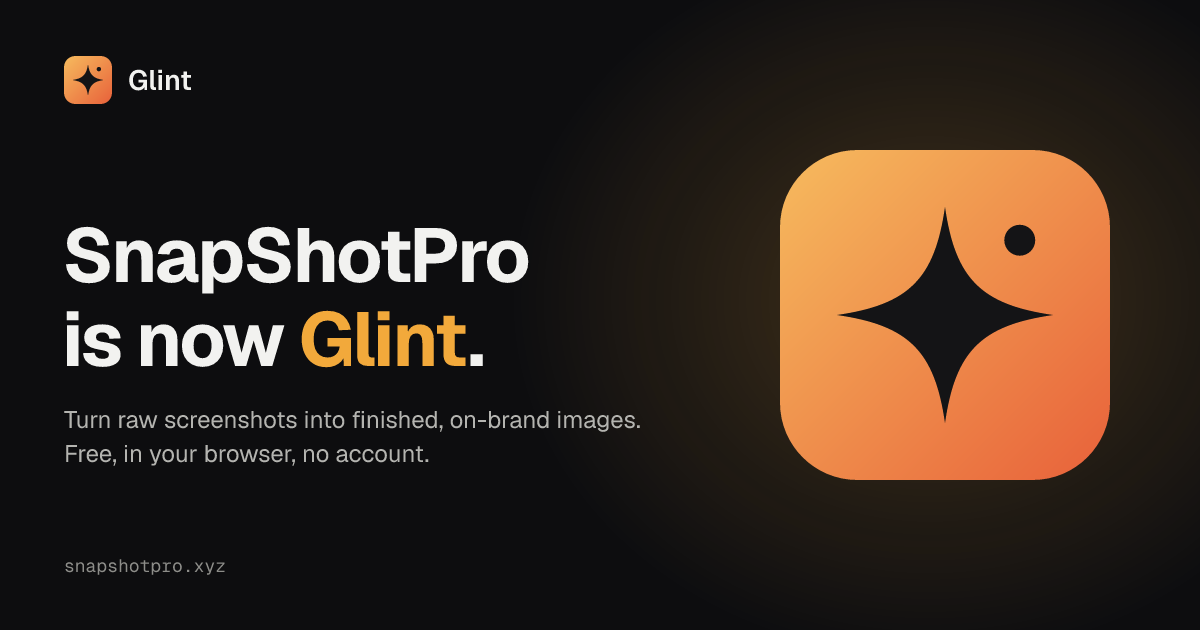
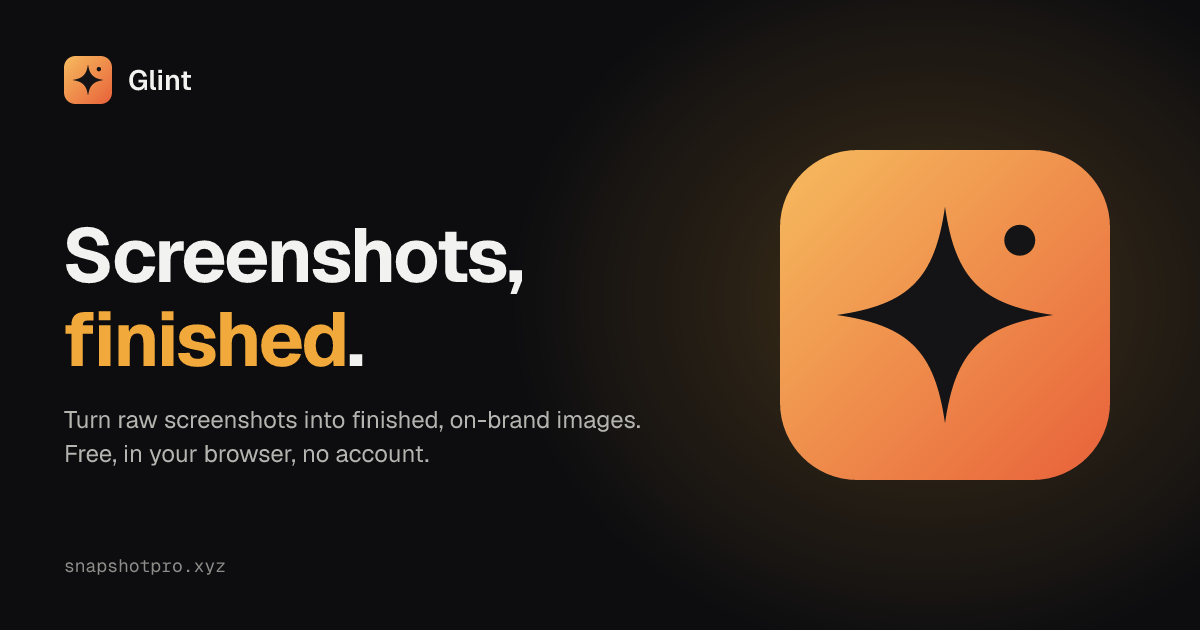
Remove SnapShotPro mentions outside the /glint/ rename page
Drop the site-wide rename bar and the editor's 'formerly SnapShotPro' link,
rewrite the homepage hero, OG image, what's-new heading and changelog copy to
say Glint, and update CLAUDE.md. Storage-migration code and the domain keep
the old name so existing users' data and links still work.

Claude-Session: https://claude.ai/code/session_01SDWFQxgppoc6R8FohFvKwZ

Changed region(s): [[0.0308, 0.4825, 0.4008, 0.6032], [0.0925, 0.3619, 0.4625, 0.4825]]

diff --git a/changelog/index.html b/changelog/index.html
@@ -4,11 +4,11 @@
     <meta charset="UTF-8">
     <meta name="viewport" content="width=device-width, initial-scale=1.0">
     <link rel="icon" type="image/svg+xml" href="/favicon.svg">
-    <meta name="description" content="Glint changelog. What shipped in each release, up to v36 Darkroom (SnapShotPro is now Glint), v35 Contrast (Before / After), v34 Bokeh (multi-region spotlight, background blur), v33 Aperture (eyedropper, recent colors, distribute, undo from the toast, quick export), and v32 Open Canvas: lay every page on an infinite, pan-and-zoom board of cards you can arrange, connect, group, seed from a URL, drive by chat, and export as one image, on top of v31 Merge Studio (CSV to N designs), v30 Studio Intelligence, the AI Design Agent, AI Assets, Design Variations, color filters and palettes, vector shape tools, motion on stills, the timeline scrubber, layer blend modes, alignment guides, device reflections, richer text effects, multi-page decks, projects, version history, live collaboration, Brand Kit, App Store screenshot sets, generative AI edits, and video.">
+    <meta name="description" content="Glint changelog. What shipped in each release, up to v36 Darkroom (Meet Glint), v35 Contrast (Before / After), v34 Bokeh (multi-region spotlight, background blur), v33 Aperture (eyedropper, recent colors, distribute, undo from the toast, quick export), and v32 Open Canvas: lay every page on an infinite, pan-and-zoom board of cards you can arrange, connect, group, seed from a URL, drive by chat, and export as one image, on top of v31 Merge Studio (CSV to N designs), v30 Studio Intelligence, the AI Design Agent, AI Assets, Design Variations, color filters and palettes, vector shape tools, motion on stills, the timeline scrubber, layer blend modes, alignment guides, device reflections, richer text effects, multi-page decks, projects, version history, live collaboration, Brand Kit, App Store screenshot sets, generative AI edits, and video.">
     <title>Changelog · Glint</title>
     <meta property="og:type" content="website">
     <meta property="og:title" content="Glint Changelog">
-    <meta property="og:description" content="Every Glint release, up to v36 Darkroom (SnapShotPro is now Glint), v34 Bokeh (multi-region spotlight, background blur), v33 Aperture (quality of life), and v32 Open Canvas: an infinite board of cards for your whole project, seed it from a URL, drive it by chat, and export it as one image. Plus v31 Merge Studio (CSV to N on-brand designs) and the full trail back to a single HTML file.">
+    <meta property="og:description" content="Every Glint release, up to v36 Darkroom (Meet Glint), v34 Bokeh (multi-region spotlight, background blur), v33 Aperture (quality of life), and v32 Open Canvas: an infinite board of cards for your whole project, seed it from a URL, drive it by chat, and export it as one image. Plus v31 Merge Studio (CSV to N on-brand designs) and the full trail back to a single HTML file.">
     <meta property="og:image" content="__OG_BASE__/og.png?v=2">
     <meta name="theme-color" content="#0d0d0f">
     <link rel="preconnect" href="https://fonts.googleapis.com">
@@ -975,7 +975,6 @@
         <p class="mono-label" style="margin-bottom:16px;">Updates</p>
         <h1>Major updates, and <span class="accent">every release</span>.</h1>
         <p class="lede">The big leaps get a spotlight. Below that, the full trail, from a single HTML file to a full browser studio.</p>
-        <p class="lede rename-note">Glint was called SnapShotPro through v35. Older entries keep the name they shipped with.</p>
     </div>
 </header>
 
@@ -991,7 +990,7 @@
                 <span class="spot-tag">Latest release</span>
                 <div class="spot-ver">v36 · October 2026</div>
                 <h2>Darkroom.</h2>
-                <p class="spot-lede">SnapShotPro is now Glint. A new name and a new look for the studio, with every feature and every project carried over.</p>
+                <p class="spot-lede">Meet Glint. A new name and a new look for the studio, with every feature and every project carried over.</p>
                 <div class="spot-feats">
                     <div class="spot-feat">
                         <span class="spot-feat-ico"><img src="/favicon.svg" alt="" width="20" height="20"></span>
@@ -1030,12 +1029,12 @@
                 <div class="entry-meta"><span class="ver">v36.0</span><span class="entry-date">October 2026</span></div>
                 <div>
                     <h2>Darkroom</h2>
-                    <p class="entry-note">The fourth photography codename, and the biggest launch so far: SnapShotPro is now Glint.</p>
+                    <p class="entry-note">The fourth photography codename, and the biggest launch so far: the studio is now Glint.</p>
                     <ul class="changes">
-                        <li><b>A new name.</b> SnapShotPro is now Glint, everywhere: the studio, the site, the installed app and the browser extension. Read why on the new <a href="/glint/">Meet Glint</a> page.</li>
+                        <li><b>A new name.</b> The studio is now Glint, everywhere: the studio, the site, the installed app and the browser extension. Read why on the new <a href="/glint/">Meet Glint</a> page.</li>
                         <li><b>A new look.</b> A sparkle mark, and a graphite and off-white interface with one amber accent. In light mode, highlighted text stays dark so it is easy to read.</li>
-                        <li><b>Your work comes with you.</b> The first time you open Glint, your projects, templates, brand kits, saved colors, API keys and settings are copied over from SnapShotPro. The old copy stays in your browser as a backup.</li>
-                        <li><b>Glint Capture.</b> The browser extension is renamed and restyled. Captures from the SnapShotPro Capture extension you already have still open in the studio.</li>
+                        <li><b>Your work comes with you.</b> The first time you open Glint, your projects, templates, brand kits, saved colors, API keys and settings are copied over automatically. The old copy stays in your browser as a backup.</li>
+                        <li><b>Glint Capture.</b> The browser extension is renamed and restyled. Captures from the older version of the extension you already have still open in the studio.</li>
                         <li><b>A new homepage.</b> Every image on it is real output from the editor, including a new graphite and amber background recipe.</li>
                     </ul>
                 </div>
@@ -1050,7 +1049,7 @@
                         <li><b>Works everywhere, exports everywhere.</b> The comparison sits inside your screenshot, so frames, device and 3D mockups, shadows, and filters all apply to it, and it bakes into exported images and videos. It saves with your projects and pages.</li>
                         <li><b>Animated wipes.</b> Turn on "Animate a wipe" and a Before / After lane appears in Motion Studio. The divider sweeps from the old screenshot to the new one, and you can move or stretch it like any other clip and export it as a video or GIF.</li>
                         <li><b>Interactive slider pages.</b> "Export interactive slider" downloads one small HTML file with a divider people can drag (or move with the arrow keys). It needs nothing else, so you can put it in a changelog, docs page, or pitch.</li>
-                        <li><b>Simple and Pro modes.</b> A new Simple / Pro switch in the header. Simple shows only the tools most people need, and lists the rest at the bottom of each panel. New visitors start in Simple; if you've used SnapShotPro before, you stay in Pro.</li>
+                        <li><b>Simple and Pro modes.</b> A new Simple / Pro switch in the header. Simple shows only the tools most people need, and lists the rest at the bottom of each panel. New visitors start in Simple; if you've used Glint before, you stay in Pro.</li>
                         <li><b>A toolbar that follows your selection.</b> Select an arrow, shape, text, or redaction and a small toolbar appears right above it, with color, size, bold and italic, duplicate, bring to front, send to back, and delete. The "⋯" button opens the full right-click menu. Turn it off from Cmd-K if you prefer.</li>
                     </ul>
                 </div>
@@ -1076,7 +1075,7 @@
                         <li><b>Undo after a slider drag works.</b> Dragging a slider or picking a color and then pressing Undo used to do nothing the first time. It now puts the old value back straight away.</li>
                         <li><b>Reset and Clear All can be undone in one click.</b> Both now show an Undo button in the notification, like deletes do. Undoing a Reset also brings back extra images you'd added.</li>
                         <li><b>Spotlight exports correctly.</b> The highlighted area used to come out see-through in exported images. It now shows your screenshot at full brightness, the way the preview does.</li>
-                        <li><b>Real examples on the site.</b> The homepage and gallery now show images made in SnapShotPro instead of stock photos, and the homepage loads faster.</li>
+                        <li><b>Real examples on the site.</b> The homepage and gallery now show images made in Glint instead of stock photos, and the homepage loads faster.</li>
                         <li><b>Lighter first visit.</b> The offline copy downloaded on your first visit drops from about 5.4 MB to 1.6 MB. Heavier tools like 3D mockups and PDF export download the first time you use them.</li>
                     </ul>
                 </div>
@@ -1126,7 +1125,7 @@
                     <h2>Open Canvas</h2>
                     <ul class="changes">
                         <li><b>An infinite board for your whole project.</b> Every page is now a card on a freeform, pan-and-zoom canvas. Drag cards to arrange them, resize and layer them, draw arrows between them, marquee a set into a group, and drop text labels anywhere. Double-click any card to edit that page in the full studio and jump straight back. The board is a new view alongside Single, Set, and Batch, open from the command palette (Cmd-K).</li>
-                        <li><b>Seed it from a URL.</b> Paste a page link in the board toolbar and SnapShotPro scrapes its images server-side (SSRF-guarded) and drops each one onto the board as a card, loaded CORS-clean through the existing proxy. Paste a link, get a set, no manual capture.</li>
+                        <li><b>Seed it from a URL.</b> Paste a page link in the board toolbar and Glint scrapes its images server-side (SSRF-guarded) and drops each one onto the board as a card, loaded CORS-clean through the existing proxy. Paste a link, get a set, no manual capture.</li>
                         <li><b>Drive it by chat.</b> The Design Agent is now board-aware: ask it to arrange your cards into a grid, row, hero, or bento layout, group a set, add or duplicate a card, seed from a link, or export the whole board as one PNG. The agent mutates the board through the same tools you'd use by hand.</li>
                         <li><b>Export and persist the board.</b> One command re-renders every card at full resolution and composites them with your text and arrows into a single PNG that matches the board on screen. The layout saves with your project (document version 14) and reopens exactly as you left it. The first version directed under GLM-5.2.</li>
                     </ul>
@@ -1150,7 +1149,7 @@
                     <ul class="changes">
                         <li><b>Campaign Generator.</b> Turn one screenshot into a coordinated set — hero, Instagram, X, LinkedIn, an App Store set, and a teaser video — saved in a revisitable Campaign folder you can re-download as a ZIP.</li>
                         <li><b>AI Screenshot Editor.</b> Edit the content inside a screenshot: fix a typo, recolor a button, auto-redact emails and names, or remove a stray cursor — the pixels change, and it bakes into every export.</li>
-                        <li><b>Brand Brain.</b> Paste a URL or drop a logo and SnapShotPro extracts a full brand system — palette, type, frame, logo — then applies and enforces it across every design and export.</li>
+                        <li><b>Brand Brain.</b> Paste a URL or drop a logo and Glint extracts a full brand system — palette, type, frame, logo — then applies and enforces it across every design and export.</li>
                         <li><b>Producer.</b> Pick a goal like "Launch kit", walk away, and come back to a finished, brand-consistent folder of assets. Copilot becomes autopilot.</li>
                     </ul>
                 </div>
@@ -1194,7 +1193,7 @@
                 <div>
                     <h2>Browser extension</h2>
                     <ul class="changes">
-                        <li><b>Capture any page in one click.</b> The new SnapShotPro Capture extension for Chrome grabs the visible viewport, the entire scrolling page (scrolled and stitched into one tall image, with sticky headers held in place), or a region you drag, and opens it straight in the studio.</li>
+                        <li><b>Capture any page in one click.</b> The new Glint Capture extension for Chrome grabs the visible viewport, the entire scrolling page (scrolled and stitched into one tall image, with sticky headers held in place), or a region you drag, and opens it straight in the studio.</li>
                         <li><b>A quick editor, and the full studio.</b> Every capture opens a built-in quick editor right away: crop, add padding and a background, drop in arrows and text, and download a clean PNG. Need more? One click hands the shot to the full studio at snapshotpro.xyz for device frames, mockups, shadows, and redaction.</li>
                         <li><b>Private by design.</b> The extension reads a tab only when you click it (activeTab), with no background access, no tracking, and no analytics. The capture goes to the studio and nowhere else. Find it on the new Extension page and the Chrome Web Store.</li>
                     </ul>
@@ -1216,7 +1215,7 @@
                 <div>
                     <h2>Code Snippet Studio</h2>
                     <ul class="changes">
-                        <li><b>Turn code into a screenshot.</b> Paste a snippet and SnapShotPro renders it as a crisp, syntax-highlighted image. Thirteen languages with auto-detect (JavaScript, TypeScript, Python, Go, Rust, SQL, JSON and more), with line numbers, tab width, font and padding all yours to set.</li>
+                        <li><b>Turn code into a screenshot.</b> Paste a snippet and Glint renders it as a crisp, syntax-highlighted image. Thirteen languages with auto-detect (JavaScript, TypeScript, Python, Go, Rust, SQL, JSON and more), with line numbers, tab width, font and padding all yours to set.</li>
                         <li><b>Eight editor themes and a real window.</b> Snazzy, Dracula, Nord, One Dark, Monokai, GitHub (dark and light) and Solarized recolor the whole card in a click. Wrap it in a macOS or Windows window with your own title, or drop the chrome for a clean card.</li>
                         <li><b>It drops into the whole studio.</b> A code card is just an image here, so a gradient or mesh background, a soft shadow, rounded corners, a redaction over a secret line, and pixel-perfect PNG export all work on it exactly like a screenshot.</li>
                     </ul>
@@ -1229,7 +1228,7 @@
                     <ul class="changes">
                         <li><b>A studio built for the phone.</b> On a small screen the editor now leads with the canvas: your design fills the viewport, and a tab dock along the bottom keeps Import, Adjust, Background, Frame, and the rest one thumb-tap away. No more hunting through a long sidebar.</li>
                         <li><b>A bottom sheet you can flick.</b> Controls live in a sheet you drag between peek, half, and full height, so you see as much canvas or as many options as you want. Swipe sideways on the handle to flip between tool groups, with a light haptic tap on every snap.</li>
-                        <li><b>Share an image straight into the editor.</b> Install SnapShotPro to your home screen and it joins your phone's share sheet. Share a screenshot from any app and it opens here, loaded and ready to frame. The desktop studio is untouched, and every tool works exactly as before.</li>
+                        <li><b>Share an image straight into the editor.</b> Install Glint to your home screen and it joins your phone's share sheet. Share a screenshot from any app and it opens here, loaded and ready to frame. The desktop studio is untouched, and every tool works exactly as before.</li>
                     </ul>
                 </div>
             </li>
@@ -1432,7 +1431,7 @@
                 <div>
                     <h2>Record, generate, collaborate</h2>
                     <ul class="changes">
-                        <li><b>Screen recording + auto-zoom.</b> Record your screen in the browser (<code>getDisplayMedia</code> + <code>MediaRecorder</code>); SnapShotPro eases in on every click, then you frame the clip in any device and export MP4 or GIF.</li>
+                        <li><b>Screen recording + auto-zoom.</b> Record your screen in the browser (<code>getDisplayMedia</code> + <code>MediaRecorder</code>); Glint eases in on every click, then you frame the clip in any device and export MP4 or GIF.</li>
                         <li><b>AI Art Director.</b> Describe a vibe and the model returns a full design spec (background, gradient/mesh, device frame, headline, shadow), validated against existing presets and applied via the normal undoable path.</li>
                         <li><b>Live collaboration.</b> Share a <code>?collab=</code> link and design together in real time over Supabase Realtime, with live cursors and synced, history-safe edits.</li>
                         <li><b>Also in v11.</b> Load media straight from a URL or YouTube link, export App Store sets localized into multiple languages, and publish or browse designs in a new community gallery.</li>
@@ -1497,7 +1496,7 @@
                 <div>
                     <h2>One file, one idea</h2>
                     <ul class="changes">
-                        <li>SnapShotPro began as a single HTML file: drop in a screenshot, add a background and a frame, export. Everything since has built on that.</li>
+                        <li>Glint began as a single HTML file: drop in a screenshot, add a background and a frame, export. Everything since has built on that.</li>
                     </ul>
                 </div>
             </li>

diff --git a/index.html b/index.html
@@ -4,14 +4,14 @@
     <meta charset="UTF-8">
     <meta name="viewport" content="width=device-width, initial-scale=1.0">
     <link rel="icon" type="image/svg+xml" href="/favicon.svg">
-    <meta name="description" content="Glint (formerly SnapShotPro) is a browser-based screenshot studio. Backgrounds, device frames, App Store screenshot sets, brand kits, generative AI edits, annotations, liquid glass, and video to MP4. Free, no account.">
+    <meta name="description" content="Glint is a browser-based screenshot studio. Backgrounds, device frames, App Store screenshot sets, brand kits, generative AI edits, annotations, liquid glass, and video to MP4. Free, no account.">
     <title>Glint · Screenshot Studio</title>
 
     <meta property="og:type" content="website">
     <meta property="og:site_name" content="Glint">
     <meta property="og:url" content="__OG_BASE__/">
     <meta property="og:title" content="Glint · Screenshot Studio">
-    <meta property="og:description" content="SnapShotPro is now Glint. Turn raw screenshots into finished, on-brand images, free in your browser.">
+    <meta property="og:description" content="Glint is a browser screenshot studio. Turn raw screenshots into finished, on-brand images, free in your browser.">
     <meta property="og:image" content="__OG_BASE__/og.png?v=3">
     <meta property="og:image:secure_url" content="__OG_BASE__/og.png?v=3">
     <meta property="og:image:type" content="image/png">
@@ -20,7 +20,7 @@
     <meta property="og:image:alt" content="Glint, the browser-based screenshot studio">
     <meta name="twitter:card" content="summary_large_image">
     <meta name="twitter:title" content="Glint · Screenshot Studio">
-    <meta name="twitter:description" content="SnapShotPro is now Glint. Turn raw screenshots into finished, on-brand images, free in your browser.">
+    <meta name="twitter:description" content="Glint is a browser screenshot studio. Turn raw screenshots into finished, on-brand images, free in your browser.">
     <meta name="twitter:image" content="__OG_BASE__/og.png?v=3">
     <meta name="theme-color" content="#0d0d0f">
     <link rel="preconnect" href="https://fonts.googleapis.com">
@@ -126,9 +126,9 @@
 <header class="g-hero">
     <div class="wrap">
         <div class="copy">
-            <span class="eyebrow">New name. Same studio.</span>
-            <h1>SnapShotPro is now <em>Glint</em>.</h1>
-            <p class="sub">Turn raw screenshots into finished, on-brand images. Every tool you used is still here, with a new look.</p>
+            <span class="eyebrow">Browser screenshot studio</span>
+            <h1>Screenshots, <em>finished</em>.</h1>
+            <p class="sub">Turn raw screenshots into finished, on-brand images. Free, in your browser, no account.</p>
             <div class="actions">
                 <a href="/editor/" class="btn btn-primary btn-lg">Open the studio <span class="ar">→</span></a>
                 <a href="/glint/" class="text-link">Meet Glint</a>

diff --git a/public/site.css b/public/site.css
@@ -73,19 +73,6 @@ a { color: inherit; text-decoration: none; }
     border: 1px solid var(--glass-line); box-shadow: var(--shadow-glass);
 }
 
-/* v36 rename notice (site/partials/announce.html). One quiet band above the nav. */
-.announce { background: var(--bg-raise); border-bottom: 1px solid var(--glass-line); font-size: 13.5px; color: var(--ink-2); }
-.no-announce .announce { display: none; }
-.announce-inner { display: flex; align-items: center; justify-content: center; gap: 12px; min-height: 40px; padding-block: 8px; }
-.announce p { display: flex; align-items: center; gap: 9px; line-height: 1.4; }
-.announce p img { flex-shrink: 0; border-radius: 4px; }
-.announce b { color: var(--ink); font-weight: 600; }
-.announce a { color: var(--ink); font-weight: 600; text-decoration: underline; text-decoration-color: var(--accent); text-decoration-thickness: 2px; text-underline-offset: 3px; white-space: nowrap; }
-.announce a:hover { color: var(--accent); }
-.announce-x { flex-shrink: 0; width: 28px; height: 28px; border-radius: 8px; border: 0; background: transparent; color: var(--ink-3); font-size: 13px; cursor: pointer; }
-.announce-x:hover { color: var(--ink); background: var(--glass-2); }
-.announce-x:focus-visible, .announce a:focus-visible { outline: 2px solid var(--accent); outline-offset: 2px; }
-@media (max-width: 560px) { .announce-inner { justify-content: space-between; align-items: flex-start; } .announce p { align-items: flex-start; } .announce p img { margin-top: 2px; } }
 
 /* Nav (glass) */
 nav {

diff --git a/extension/index.html b/extension/index.html
@@ -104,8 +104,8 @@
             </div>
             <div class="ex-shot reveal">
                 <div class="ex-browser">
-                    <div class="ex-bar"><i></i><i></i><i></i><span class="u">snapshotpro.xyz/editor</span></div>
-                    <img class="ex-canvas" src="https://picsum.photos/seed/snapshotpro-capture-hero/1280/800" alt="A webpage being captured" loading="eager" width="1280" height="800">
+                    <div class="ex-bar"><i></i><i></i><i></i><span class="u">glint studio</span></div>
+                    <img class="ex-canvas" src="https://picsum.photos/seed/glint-capture-hero/1280/800" alt="A webpage being captured" loading="eager" width="1280" height="800">
                 </div>
                 <div class="ex-marquee"><span></span><span></span><span></span><span></span><span class="dim">Region</span></div>
                 <div class="ex-pop">
@@ -162,7 +162,7 @@
             <div class="ex-step reveal">
                 <span class="n">02</span>
                 <h3>It opens in the studio</h3>
-                <p>The capture hands off to snapshotpro.xyz and loads onto the canvas, ready to frame.</p>
+                <p>The capture hands off to the Glint studio and loads onto the canvas, ready to frame.</p>
             </div>
             <div class="ex-step reveal">
                 <span class="n">03</span>

diff --git a/public/site.js b/public/site.js
@@ -15,19 +15,7 @@
       { rootMargin: '-8px 0px 0px 0px' }).observe(sentinel);
   }
 
-  // 1a) v36 rename notice (site/partials/announce.html): dismiss once, remember it.
-  const announce = document.getElementById('announce');
-  const announceX = announce && announce.querySelector('.announce-x');
-  if (announceX) {
-    announceX.addEventListener('click', () => {
-      document.documentElement.classList.add('no-announce');
-      try { localStorage.setItem('glint_rename_notice_v36', 'dismissed'); } catch (e) { /* storage blocked: hide for this page only */ }
-      const link = nav && nav.querySelector('.brand');
-      if (link) link.focus();
-    });
-  }
-
-  // 1b) Mark the current section in the nav, and the phone menu toggle.
+  // 1a) Mark the current section in the nav, and the phone menu toggle.
   if (nav) {
     const here = location.pathname.replace(/index\.html$/, '');
     nav.querySelectorAll('.nav-link').forEach((a) => {

diff --git a/vite.config.js b/vite.config.js
@@ -23,8 +23,7 @@ function htmlPartials() {
         const wrapMain = !/<main[\s>]/.test(html) && html.includes('<!--PARTIAL:nav-->') && html.includes('<!--PARTIAL:footer-->');
         return html
           .split('<!--PARTIAL:mark-->').join(read('mark.html'))
-          // v36: the rename notice sits after the skip link, before the <nav>.
-          .split('<!--PARTIAL:nav-->').join(read('nav.html').replace('<nav id="nav"', read('announce.html') + '<nav id="nav"') + (wrapMain ? '\n<main id="main">' : ''))
+          .split('<!--PARTIAL:nav-->').join(read('nav.html') + (wrapMain ? '\n<main id="main">' : ''))
           .split('<!--PARTIAL:footer-->').join((wrapMain ? '</main>\n' : '') + read('footer.html').split('{{VERSION}}').join(version));
       }
     }

diff --git a/src/styles.css b/src/styles.css
@@ -95,10 +95,6 @@ body {
     font-size: 17px; font-weight: 600; letter-spacing: -0.3px;
     color: var(--text-primary);
 }
-/* v36: quiet "formerly SnapShotPro" note after the wordmark, linking to /glint/. */
-.logo .formerly { font-size: 12px; font-weight: 400; letter-spacing: 0; color: var(--text-tertiary); text-decoration: none; white-space: nowrap; }
-.logo .formerly:hover, .logo .formerly:focus-visible { color: var(--text-primary); text-decoration: underline; text-decoration-color: var(--accent-line); text-underline-offset: 3px; }
-@media (max-width: 1100px) { .logo .formerly { display: none; } }
 .logo-icon {
     width: 30px; height: 30px;
     background: linear-gradient(135deg, var(--accent-primary) 0%, var(--accent-secondary) 100%);

diff --git a/agent/index.html b/agent/index.html
@@ -198,7 +198,7 @@
                 </div>
                 <div class="ag-result">
                     <div class="ag-bar"><i></i><i></i><i></i></div>
-                    <div class="ag-shot-pad"><img src="https://picsum.photos/seed/snapshotpro-agent-fintech/1200/740" alt="A screenshot styled by the agent: framed in a device on a warm gradient background" loading="eager" width="1200" height="740"></div>
+                    <div class="ag-shot-pad"><img src="https://picsum.photos/seed/glint-agent-fintech/1200/740" alt="A screenshot styled by the agent: framed in a device on a warm gradient background" loading="eager" width="1200" height="740"></div>
                 </div>
             </div>
         </div>

diff --git a/editor/index.html b/editor/index.html
@@ -27,7 +27,6 @@
                     </svg>
                 </div>
                 <span>Glint <span style="font-size:13px;font-weight:400;color:var(--text-secondary);">v36 · Darkroom</span></span>
-                <a href="/glint/" class="formerly" target="_blank" rel="noopener" title="Why the new name">formerly SnapShotPro</a>
             </div>
             <div class="header-actions">
                 <span id="auth-pill" style="display:inline-flex;gap:6px;align-items:center;margin-right:4px;"></span>

diff --git a/src/features/whats-new.js b/src/features/whats-new.js
@@ -16,7 +16,7 @@ const WELCOME_KEY  = 'glint_welcome_v1';   // set by welcome.js on dismissal
 
 // Latest release only — the newest version’s highlights, not an accumulation.
 const WHATS_NEW = {
-  heading: "✨ v36 · Darkroom: SnapShotPro is now Glint",
+  heading: "✨ v36 · Darkroom: Meet Glint",
   items: [
     { title: 'Same studio, new name',
       desc: 'Every tool is where you left it. Your projects, templates and brand kits moved over automatically.' },

diff --git a/src/main.js b/src/main.js
@@ -1,4 +1,4 @@
-// Glint (formerly SnapShotPro) v7+ — app entry.
+// Glint v7+ — app entry.
 // Initialize DOM refs, bind every module, then render.
 
 import './state/brand-migrate.js';   // v36: must run before any module reads localStorage

diff --git a/CLAUDE.md b/CLAUDE.md
@@ -2,7 +2,7 @@
 
 This file provides guidance to Claude Code (claude.ai/code) when working with code in this repository.
 
-The product is **Glint**, a browser screenshot and mockup studio. It was called SnapShotPro through v35; v36 (Darkroom) renamed it. Past changelog entries, old docs under `docs/`, the domain (`snapshotpro.xyz`) and the legacy `SnapShot-Pro-main/` folder keep the old name on purpose. Everything else, including new copy and code, says Glint. The GitHub repo is `I-794/Glint` (renamed from `I-794/SnapShotPro`; GitHub redirects the old URL).
+The product is **Glint**, a browser screenshot and mockup studio. It was called SnapShotPro through v35; v36 (Darkroom) renamed it. The old name now appears only on the `/glint/` page (which explains the rename), in the storage-migration code (`brand-migrate.js`, `project-db.js`, `ext-receiver.js` and their tests), the domain (`snapshotpro.xyz`), old docs under `docs/`, and the legacy `SnapShot-Pro-main/` folder. Everything else, including the changelog, site copy and code, says Glint; do not add new mentions of the old name. The GitHub repo is `I-794/Glint` (renamed from `I-794/SnapShotPro`; GitHub redirects the old URL).
 
 ## Models / Preferences
 
@@ -151,7 +151,7 @@ Current `SCHEMA_VERSION` is 21 (v35 Before / After Compare). The board is docume
 
 ## Build details worth knowing
 
-- **HTML partials**: `vite.config.js` injects shared markup from `site/partials/` into pages that contain `<!--PARTIAL:...-->` placeholders (the editor has none, so it is untouched). `{{VERSION}}` in the footer is filled from `package.json`. Since v36 the `<!--PARTIAL:nav-->` replacement also inserts `site/partials/announce.html` (the "SnapShotPro is now Glint." bar) between the skip link and the `<nav>`, so every marketing page gets it; it hides itself on `/glint/` and once dismissed (`glint_rename_notice_v36` in localStorage, an inline script hides it before first paint, `public/site.js` handles the click). The editor header carries a matching "formerly SnapShotPro" link to `/glint/` (hidden under 1100px). Remove both in v37.
+- **HTML partials**: `vite.config.js` injects shared markup from `site/partials/` into pages that contain `<!--PARTIAL:...-->` placeholders (the editor has none, so it is untouched). `{{VERSION}}` in the footer is filled from `package.json`.
 - **Versioning**: `package.json` `version` is the single version source; it drives the footer and the returning-user "what's new" toast (`src/features/whats-new.js`). Bump it for a release.
 - **Release codenames (from v33)**: every major gets a photography codename in A to Z order (v33 Aperture, v34 Bokeh, v35 Contrast, v36 Darkroom (the Glint relaunch), v37 Exposure, v38 Focus, ...). The number stays semver in `package.json`; the codename shows in the editor header (`Glint v36 · Darkroom`), the what's-new heading, and as the changelog entry `<h2>`. `whats-new.js` `CURRENT_VERSION` is compared by string equality, so any label works.
 - **OG/social**: `__OG_BASE__` in HTML is replaced with the absolute site URL at build (from Vercel env, or `OG_BASE_URL` locally).
